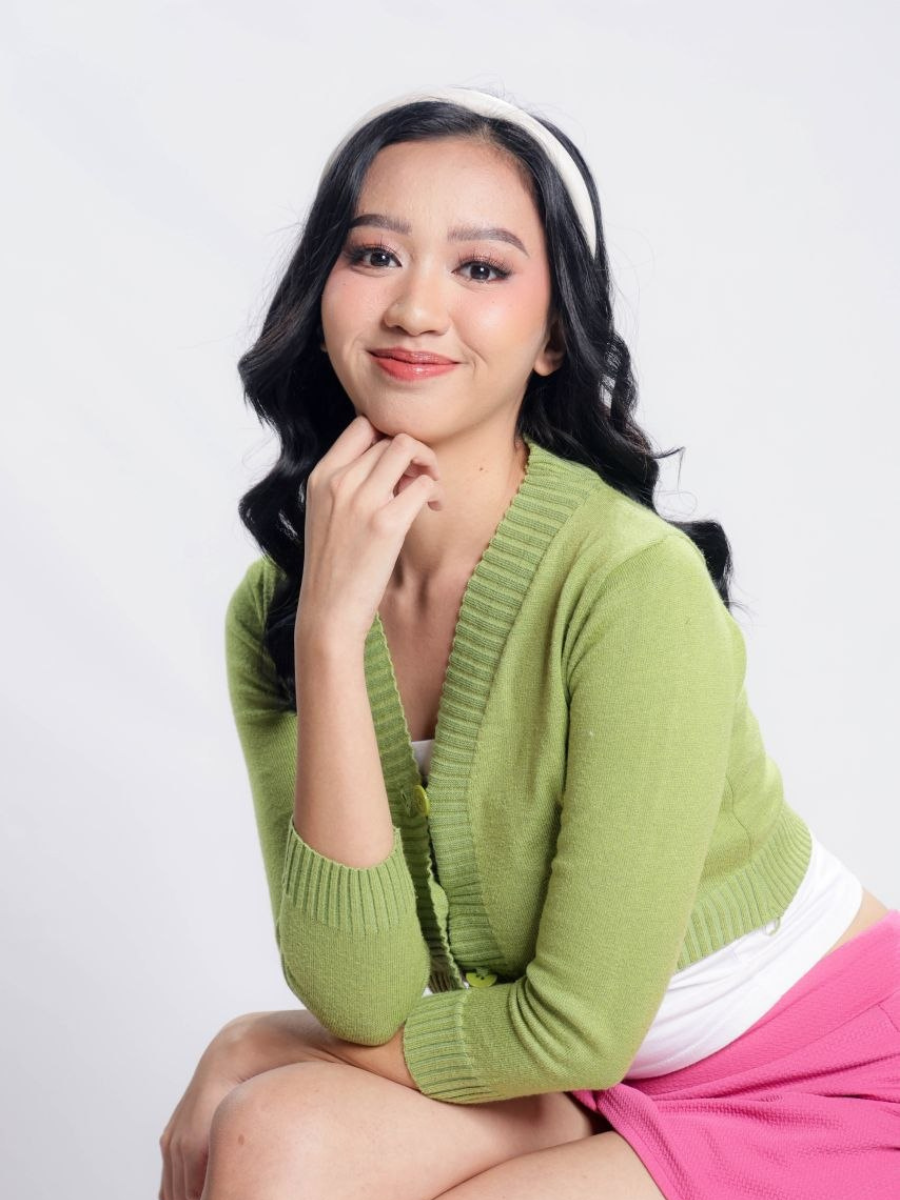
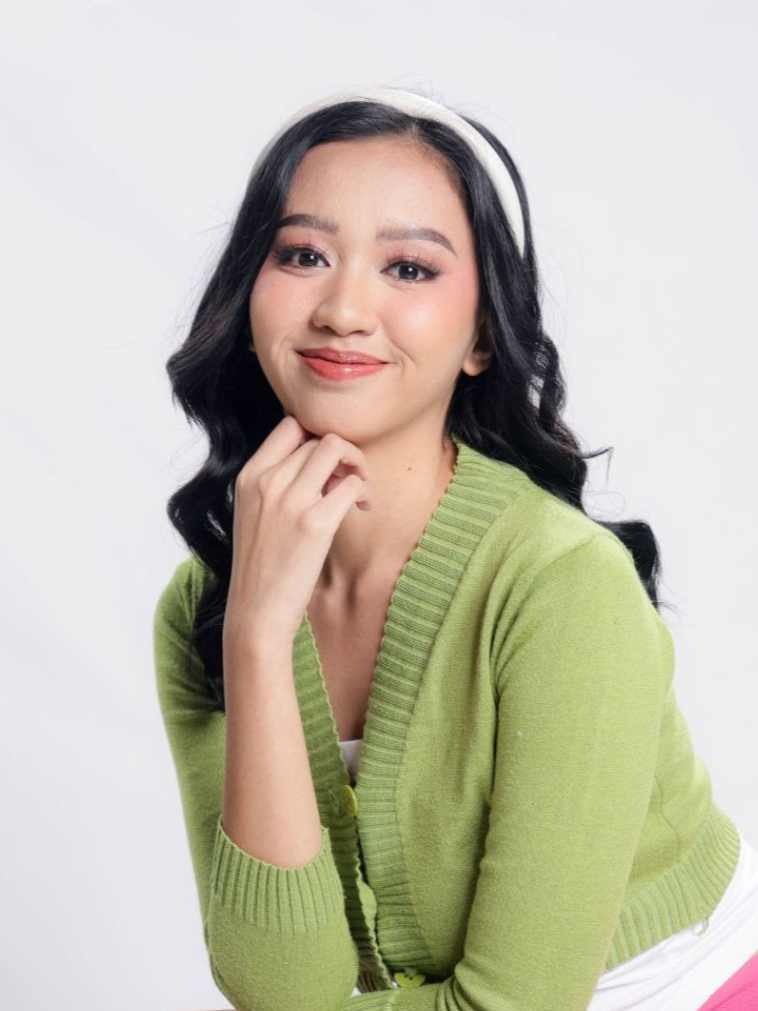
fix: revised cleandata description and modified my-picture layout

diff --git a/components/projects.tsx b/components/projects.tsx
@@ -117,8 +117,9 @@ const projectCards = [
     liveLink: 'https://cleandatastudio.onrender.com',
     techStack: ['C#', 'ASP.NET', 'React', 'Typescript'],
     description: [
-      'Architected and developed a full-stack data management web application designed to process information into action through analytics-based solutions.',
-      'Applied spec-driven development patterns to map out data flows and reduce technical debt within both frontend views and backend API routing.',
+      'Designed and built a backend processing engine utilizing C# and ASP.NET Core Web API to handle large data manipulations.',
+      'Applied LINQ and Entity Framework Core for complex database querying and data normalization, programmatically parsing uploaded CSV files to isolate and remove duplicates and structural anomalies.',
+      'Configured custom Dockerfile to containerize the application, ensuring multi-environment configuration parity and localized cloud testing.',
     ],
   },
   {

diff --git a/components/skills.tsx b/components/skills.tsx
@@ -5,7 +5,7 @@ import Image from 'next/image';
 
 const skillCards = [
   {
-    title: 'Web Development',
+    title: 'Full-Stack Development',
     description: 'Building responsive web applications with a focus on clean code and user experience.',
     logos: ['/c-sharp.png', '/react.png', '/typescript.png', '/tailwind.png', '/javascript.png', '/php.png', '/sql.png', '/figma.png'],
   },
